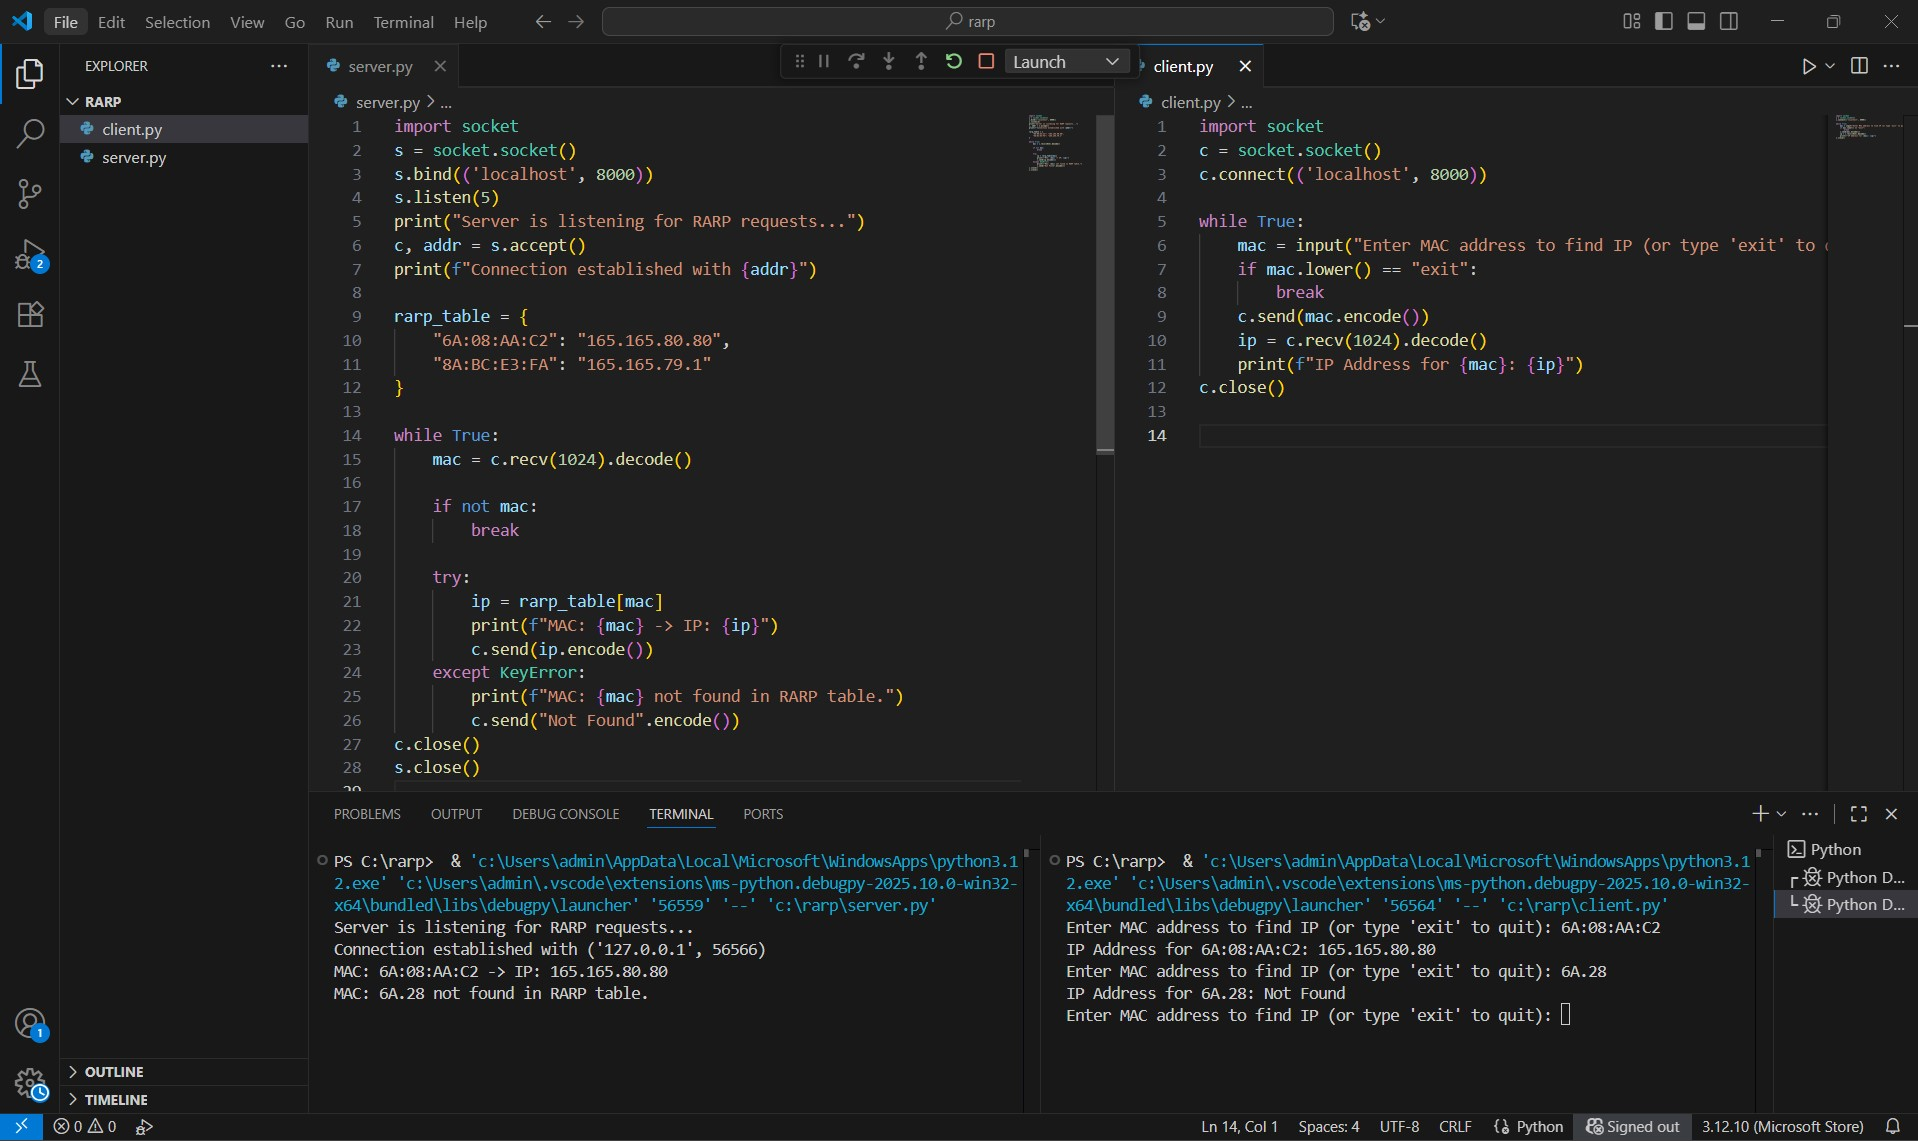
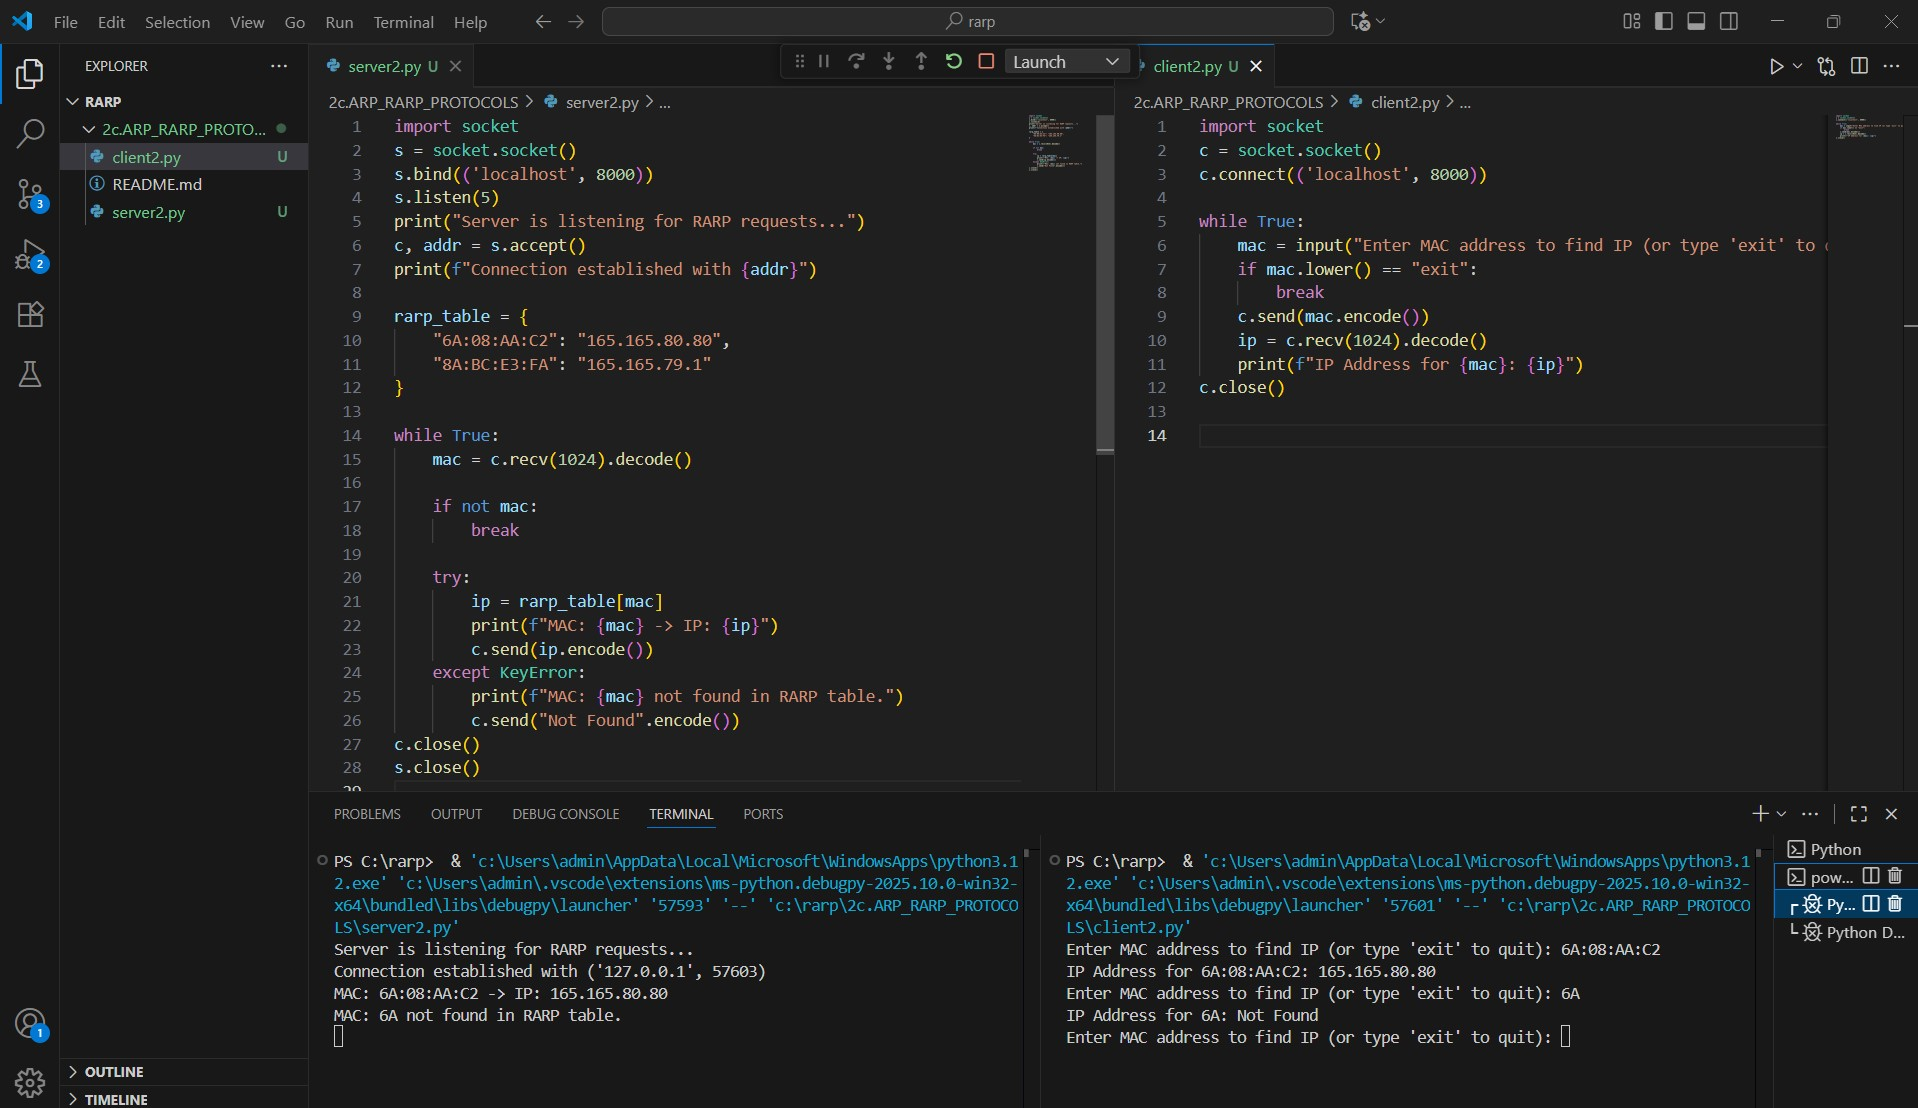
Success

diff --git a/server2.py b/server2.py
@@ -1,0 +1,28 @@
+import socket
+s = socket.socket()
+s.bind(('localhost', 8000))
+s.listen(5)
+print("Server is listening for RARP requests...")
+c, addr = s.accept()
+print(f"Connection established with {addr}")
+
+rarp_table = {
+    "6A:08:AA:C2": "165.165.80.80",
+    "8A:BC:E3:FA": "165.165.79.1"
+}
+
+while True:
+    mac = c.recv(1024).decode()
+
+    if not mac:  
+        break
+
+    try:
+        ip = rarp_table[mac]  
+        print(f"MAC: {mac} -> IP: {ip}")
+        c.send(ip.encode())  
+    except KeyError:
+        print(f"MAC: {mac} not found in RARP table.")
+        c.send("Not Found".encode())
+c.close()
+s.close()

diff --git a/client2.py b/client2.py
@@ -1,0 +1,13 @@
+import socket
+c = socket.socket()
+c.connect(('localhost', 8000))
+
+while True:
+    mac = input("Enter MAC address to find IP (or type 'exit' to quit): ")
+    if mac.lower() == "exit":  
+        break
+    c.send(mac.encode())
+    ip = c.recv(1024).decode()
+    print(f"IP Address for {mac}: {ip}")
+c.close()
+
